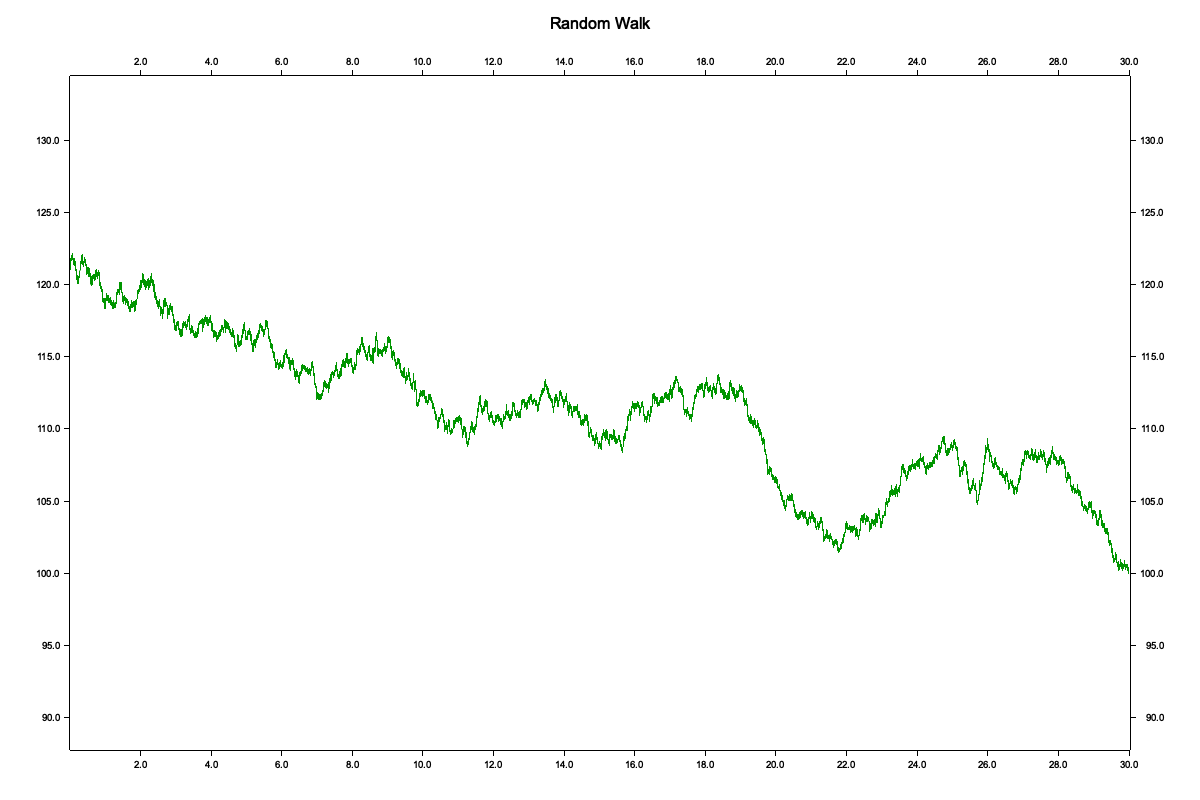
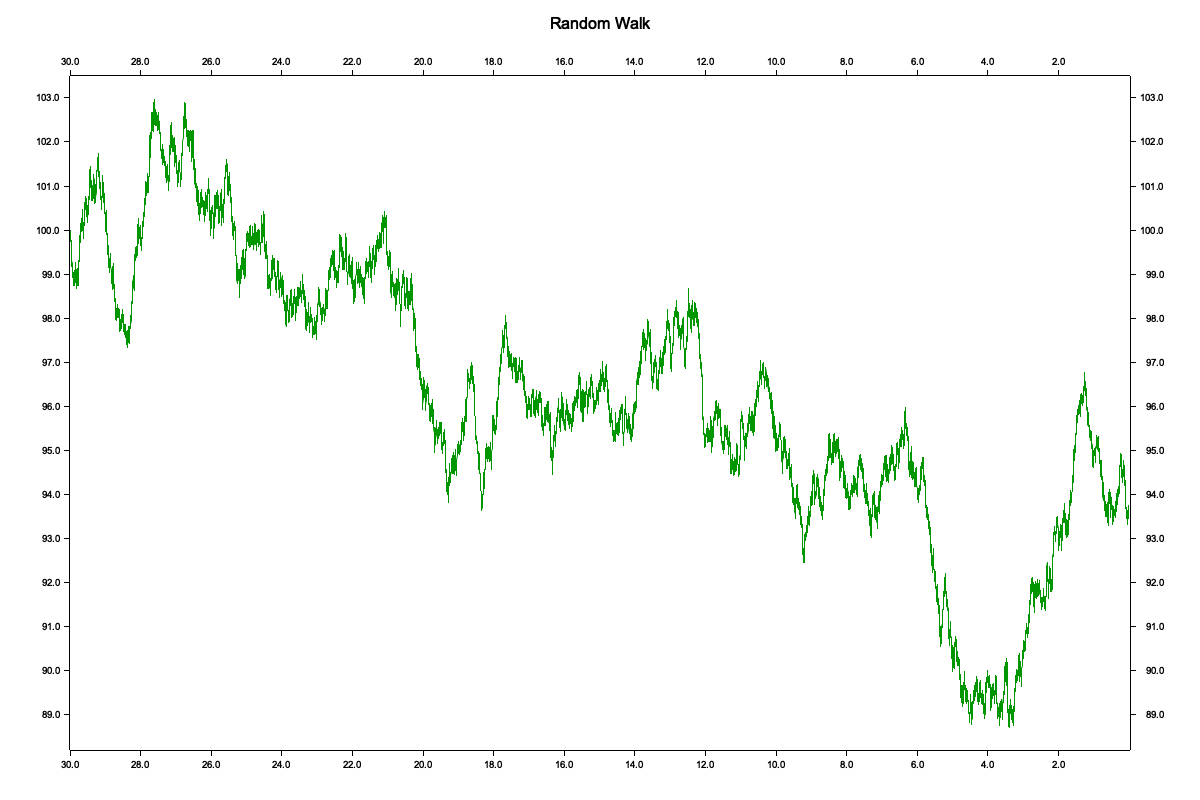
Add graph plotting with inverted X-axis to random walk
Implemented a new `graph` function in `randomwalk.rs` to plot charts with an inverted X-axis and enhanced visualization features. Introduced a `build_chart_inverted` macro for streamlined chart setup and updated dependencies for improved rendering.

diff --git a/src/simulation/randomwalk.rs b/src/simulation/randomwalk.rs
@@ -3,12 +3,16 @@
    Email: jb@taunais.com
    Date: 23/3/25
 ******************************************************************************/
-use crate::Positive;
+use crate::constants::{DARK_GREEN, DARK_RED};
 use crate::pricing::Profit;
 use crate::simulation::WalkParams;
 use crate::simulation::steps::Step;
 use crate::utils::Len;
-use crate::visualization::utils::Graph;
+use crate::visualization::utils::{
+    Graph, GraphBackend, calculate_axis_range, draw_points_on_chart, draw_vertical_lines_on_chart,
+};
+use crate::{Positive, build_chart_inverted, create_drawing_area};
+use plotters::prelude::{BLACK, BitMapBackend, IntoDrawingArea, LineSeries, WHITE};
 use rust_decimal::Decimal;
 use std::error::Error;
 use std::fmt::Display;
@@ -287,12 +291,86 @@ where
     X: Copy + Into<Positive> + AddAssign + Display,
     Y: Into<Positive> + Display + Clone,
 {
+    fn graph(&self, backend: GraphBackend, title_size: u32) -> Result<(), Box<dyn Error>> {
+        // Get X values from the random walk
+        let x_values = self.get_x_values();
+        let x_axis_data: &[Positive] = &x_values;
+
+        // Check if there are valid X values to plot
+        if x_axis_data.is_empty() {
+            return Err("No valid values to plot".into());
+        }
+
+        // Get Y values from the random walk
+        let y_axis_data: Vec<f64> = self.get_y_values();
+
+        // Check if there are valid Y values to plot
+        if y_axis_data.is_empty() {
+            return Err("No valid values to plot".into());
+        }
+
+        // Calculate the range for both axes
+        let (max_x_value, min_x_value, max_y_value, min_y_value) =
+            calculate_axis_range(x_axis_data, &y_axis_data, Some(1.005));
+
+        // Set up the drawing area based on the backend
+        let root = match backend {
+            GraphBackend::Bitmap { file_path, size } => {
+                create_drawing_area!(file_path, size.0, size.1)
+            }
+        };
+
+        // Here's the key change: We manually build the chart with inverted X-axis
+        let mut chart = build_chart_inverted!(
+            &root,
+            self.title(),
+            title_size,
+            min_x_value.to_f64(),
+            max_x_value.to_f64(),
+            min_y_value,
+            max_y_value
+        );
+
+        // Configure the chart same as the original
+        chart
+            .configure_mesh()
+            .disable_mesh() // Keep the original style (no grid)
+            .x_labels(20)
+            .y_labels(20)
+            .draw()?;
+
+        // Draw a horizontal line at y = 0
+        chart.draw_series(LineSeries::new(
+            vec![(max_x_value.to_f64(), 0.0), (min_x_value.to_f64(), 0.0)],
+            &BLACK,
+        ))?;
+
+        // Draw the line segments using the original style
+        let mut last_point: Option<(f64, f64)> = None;
+        for (&x, &y) in x_axis_data.iter().zip(y_axis_data.iter()) {
+            if let Some((last_x, last_y)) = last_point {
+                let color_to_use = if y > 0.0 { &DARK_GREEN } else { &DARK_RED };
+
+                let points: Vec<(f64, f64)> = vec![(last_x, last_y), (x.to_f64(), y)];
+                chart.draw_series(LineSeries::new(points, color_to_use))?;
+            }
+            last_point = Some((x.to_f64(), y));
+        }
+
+        // Draw any additional points and vertical lines
+        draw_points_on_chart(&mut chart, &self.get_points())?;
+        draw_vertical_lines_on_chart(&mut chart, &self.get_vertical_lines())?;
+
+        // Present the final chart
+        root.present()?;
+        Ok(())
+    }
+
     fn title(&self) -> String {
         self.title.clone()
     }
 
     fn get_x_values(&self) -> Vec<Positive> {
-        // TODO: invert in the graph
         self.steps
             .iter()
             .map(|step| step.get_graph_x_in_days_left())

diff --git a/src/visualization/utils.rs b/src/visualization/utils.rs
@@ -113,6 +113,20 @@ macro_rules! build_chart {
     };
 }
 
+#[macro_export]
+macro_rules! build_chart_inverted {
+    ($root:expr, $title:expr, $title_size:expr, $min_x:expr, $max_x:expr, $min_y:expr, $max_y:expr) => {
+        plotters::prelude::ChartBuilder::on($root)
+            .caption($title, ("sans-serif", $title_size))
+            .margin(10)
+            .top_x_label_area_size(40)
+            .x_label_area_size(40)
+            .y_label_area_size(60)
+            .right_y_label_area_size(60)
+            .build_cartesian_2d($max_x..$min_x, $min_y..$max_y)?
+    };
+}
+
 /// Configures the chart mesh, labels, and draws a horizontal line at y = 0.
 ///
 /// # Arguments
